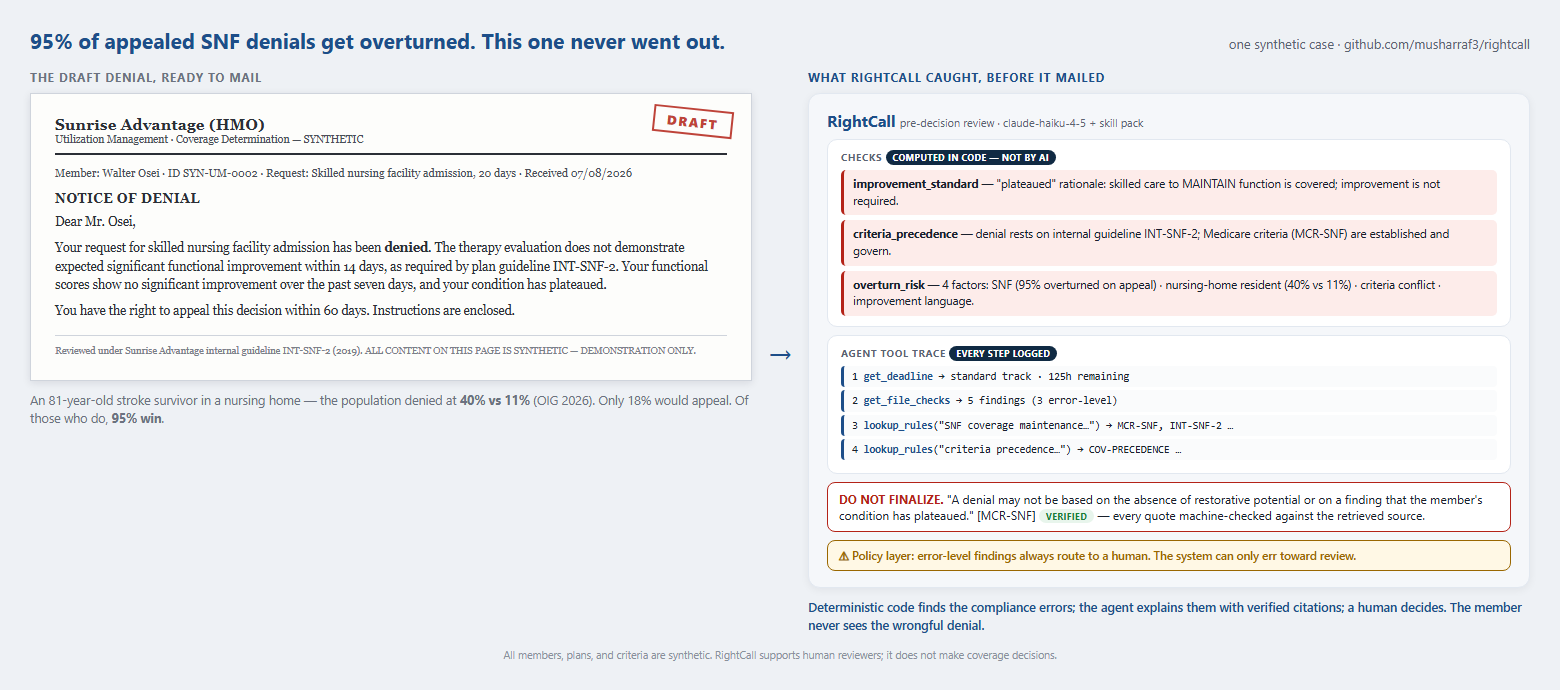
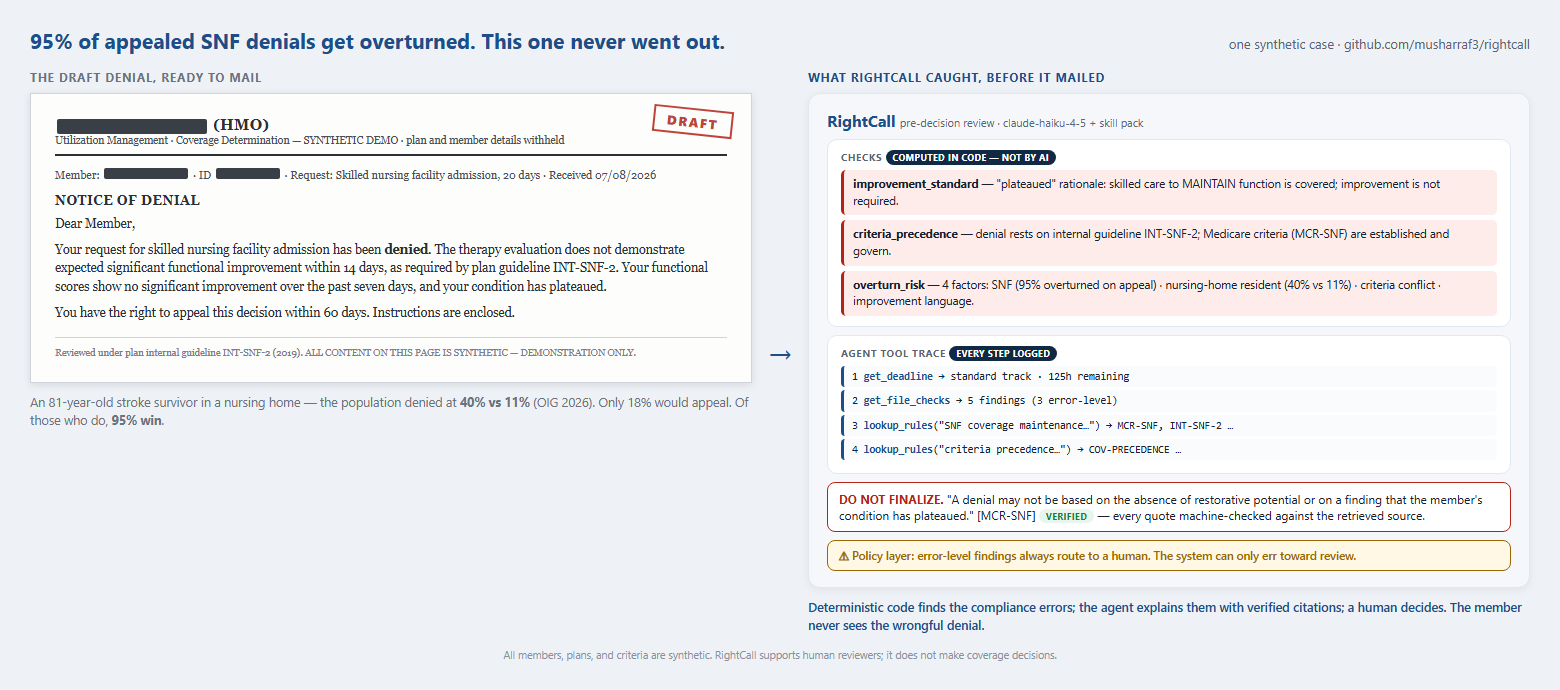
Remove plan brand and person names from public surface
- Requests: generic member identifiers (SYNTHETIC MEMBER 000N) and a generic demo plan name
- Internal-criteria corpus: plan brand removed (verified: all cached citation quotes still pass the groundedness guard; eval metrics unchanged)
- Visuals and reports regenerated with redaction bars; no names anywhere in postable assets

Changed region(s): [[0.0308, 0.2435, 0.4615, 0.5174], [0.0, 0.5478, 0.4923, 0.6391], [0.0308, 0.1522, 0.3692, 0.213]]

diff --git a/docs/the_gap_source.html b/docs/the_gap_source.html
@@ -24,6 +24,8 @@ letter-spacing:.12em;transform:rotate(6deg);text-transform:uppercase;opacity:.85
 .paper p{margin:7px 0;line-height:1.5}
 .paper .meta{font-size:11px;color:#4a4f57;margin:8px 0}
 .paper .fine{margin-top:14px;font-size:9.5px;color:#7a8089;line-height:1.5;border-top:1px solid #cfd4dc;padding-top:8px}
+.redact{display:inline-block;background:#3a3f47;border-radius:2px;height:11px;vertical-align:baseline;margin:0 2px}
+.redact.big{height:15px;vertical-align:middle}
 .caption{font-size:12.5px;margin-top:10px;line-height:1.45}
 .left .caption{color:#6b7280}
 .right .caption{color:#1d4e89;font-weight:600}
@@ -61,13 +63,13 @@ footer{margin-top:14px;font-size:10.5px;color:#8a919c;text-align:center}
     <div class="panel-label">The draft denial, ready to mail</div>
     <div class="paper">
       <div class="stamp">Draft</div>
-      <div class="lh"><b>Sunrise Advantage (HMO)</b><div class="sub2">Utilization Management · Coverage Determination — SYNTHETIC</div></div>
-      <div class="meta">Member: Walter Osei · ID SYN-UM-0002 · Request: Skilled nursing facility admission, 20 days · Received 07/08/2026</div>
+      <div class="lh"><b><span class="redact big" style="width:150px"></span> (HMO)</b><div class="sub2">Utilization Management · Coverage Determination — SYNTHETIC DEMO · plan and member details withheld</div></div>
+      <div class="meta">Member: <span class="redact" style="width:84px"></span> · ID <span class="redact" style="width:64px"></span> · Request: Skilled nursing facility admission, 20 days · Received 07/08/2026</div>
       <h3>Notice of Denial</h3>
-      <p>Dear Mr. Osei,</p>
+      <p>Dear Member,</p>
       <p>Your request for skilled nursing facility admission has been <b>denied</b>. The therapy evaluation does not demonstrate expected significant functional improvement within 14 days, as required by plan guideline INT-SNF-2. Your functional scores show no significant improvement over the past seven days, and your condition has plateaued.</p>
       <p>You have the right to appeal this decision within 60 days. Instructions are enclosed.</p>
-      <div class="fine">Reviewed under Sunrise Advantage internal guideline INT-SNF-2 (2019). ALL CONTENT ON THIS PAGE IS SYNTHETIC — DEMONSTRATION ONLY.</div>
+      <div class="fine">Reviewed under plan internal guideline INT-SNF-2 (2019). ALL CONTENT ON THIS PAGE IS SYNTHETIC — DEMONSTRATION ONLY.</div>
     </div>
     <div class="caption">An 81-year-old stroke survivor in a nursing home — the population denied at <b>40% vs 11%</b> (OIG 2026). Only 18% would appeal. Of those who do, <b>95% win</b>.</div>
   </div>

diff --git a/report/req_02__worker_skill.html b/report/req_02__worker_skill.html
@@ -59,11 +59,11 @@ padding-top:12px}
 .gg{font-weight:600}
 </style></head><body><div class="wrap">
 <header><h1>RightCall</h1><span class="tag">pre-decision review ·
-Sunrise Advantage (HMO) — SYNTHETIC · claude-haiku-4-5-20251001 · arm: worker+skill</span></header>
+Synthetic Medicare Advantage Plan (HMO) — DEMO · claude-haiku-4-5-20251001 · arm: worker+skill</span></header>
 <div style="margin:6px 0 0"><span class="clock">standard track · due 2026-07-15T14:00:00Z · 125h remaining</span></div>
 <div class="banner escalate_human">ESCALATE — a human decides this one</div>
 <div class="card"><h2>Case</h2>
-<p><b>Skilled nursing facility admission, 20 days requested</b> — Walter Osei (SYNTHETIC),
+<p><b>Skilled nursing facility admission, 20 days requested</b> — SYNTHETIC MEMBER 0002,
 SYN-UM-0002</p>
 <p style="color:var(--sub);font-size:13.5px;margin-top:6px">81M post ischemic stroke with dysphagia and right-sided weakness, discharged from acute care 2026-07-07. Therapy evaluation documents daily skilled needs: swallowing therapy with aspiration precautions, PT/OT for safe transfers, and skilled nursing for PEG-site care and anticoagulation monitoring. Functional scores stable over the last week without further gains.</p></div><div class="card"><h2>Pre-decision checks <span class="badge code">computed in code — not by AI</span></h2><div class="finding info"><b>documentation</b><div>File is complete: all 4 required documents for snf_admission are present.</div></div><div class="finding info"><b>deadline</b><div>Decision clock: 125 hours remain on the standard track (due 2026-07-15T14:00:00Z).</div></div><div class="finding error"><b>criteria_precedence</b><div>Draft denial rests on internal criteria (INT-SNF-2), but Medicare coverage criteria for snf_admission are established (see MCR-SNF). Where Medicare criteria exist, they govern — internal criteria may only fill gaps.</div></div><div class="finding error"><b>improvement_standard</b><div>Draft denial rationale uses improvement-standard language (&#x27;no significant improvement&#x27;; &#x27;plateau&#x27;; &#x27;has plateaued&#x27;; &#x27;restorative potential&#x27;). Skilled care to MAINTAIN function or slow decline is covered — improvement is not required. This is among the most-overturned denial rationales.</div></div><div class="finding error"><b>overturn_risk</b><div>Overturn-risk factors present (4): SNF denial (95% of appealed SNF denials are overturned — OIG 2026); nursing-home resident (denied at 40% vs 11% for others — OIG 2026); internal criteria conflict with Medicare criteria; improvement-standard rationale. Published pattern: 81% of appealed MA denials are overturned — a denial with these markers is unlikely to survive review.</div></div></div><div class="card"><h2>Agent tool trace <span class="badge code">every step logged</span></h2><div class="trace"><div class="step"><span class="n">1</span><span><span class="tool">get_deadline</span><span class="in">()</span> → standard track · 125h remaining · due 2026-07-15T14:00:00Z</span></div><div class="step"><span class="n">2</span><span><span class="tool">get_file_checks</span><span class="in">()</span> → 5 findings (3 error-level)</span></div><div class="step"><span class="n">3</span><span><span class="tool">lookup_rules</span><span class="in">({&quot;query&quot;: &quot;SNF skilled nursing facility coverage criteria maintenance improvement&quot;})</span> → query &#x27;SNF skilled nursing facility coverage criteria maintenance improvement&#x27; → INT-SNF-2 (12.793), MCR-SNF (11.873), MCR-THER (8.75), DOC-SNF (7.931)</span></div><div class="step"><span class="n">4</span><span><span class="tool">lookup_rules</span><span class="in">({&quot;query&quot;: &quot;coverage criteria precedence Medicare internal plan guidelines&quot;})</span> → query &#x27;coverage criteria precedence Medicare internal plan guidelines&#x27; → COV-INTERNAL (10.059), INT-IMG-1 (8.618), INT-ACU-1 (7.274), COV-PRECEDENCE (6.544)</span></div></div></div><div class="card"><h2>Review memo</h2><div class="memo">DO NOT FINALIZE. The draft fails two core compliance rules and carries extreme overturn risk (95% of appealed SNF denials overturned per OIG 2026; this case combines internal-criteria conflict, improvement-standard language, and nursing-home setting—81% overall MA appeal overturn rate).
 
@@ -81,7 +81,7 @@ RECOMMENDED ACTIONS:
 - Route to medical director immediately; do not finalize notice.
 - Re-review against MCR-SNF (not INT-SNF-2). Member meets Medicare criteria: post-stroke, acute discharge, documented daily skilled nursing and therapy needs, medical necessity clearly established by discharge summary and therapy evaluation.
 - Retire or formally annotate INT-SNF-2 in the criteria library with a precedence note; do not apply to future SNF reviews.
-- Approval is the appropriate coverage outcome on this file.</div><div class="impact"><b>Member impact (plain language):</b> Your request for skilled nursing care after your stroke cannot be approved under the guideline your plan used. We need to review this again under the correct Medicare rules. You should not receive a denial letter until your care is reviewed the right way. We will contact you within the next few days with an update.</div></div><div class="card"><h2>Citations — machine-verified</h2><div class="cite"><span class="src">[MCR-SNF] Skilled nursing facility care: coverage criteria</span> <span class="badge ok">verified</span><div class="q">“skilled care needed to maintain the member&#x27;s condition, or to prevent or slow further deterioration, is covered. A denial may not be based on the absence of restorative potential or on a finding that the member&#x27;s condition has plateaued.”</div></div><div class="cite"><span class="src">[COV-PRECEDENCE] Medicare coverage criteria govern when they exist</span> <span class="badge ok">verified</span><div class="q">“When Medicare coverage criteria fully establish when an item or service is covered, those criteria govern the decision and the plan may not apply more restrictive rules of its own.”</div></div><div class="cite"><span class="src">[INT-SNF-2] Sunrise internal guideline: SNF admission (legacy)</span> <span class="badge ok">verified</span><div class="q">“skilled nursing facility admission is approved when the member demonstrates documented restorative potential with expected significant functional improvement within 14 days of admission, measurable against baseline functional scores. Members assessed as having plateaued or as requiring maintenance-level care do not meet this guideline.”</div></div><div class="cite"><span class="src">[COV-INTERNAL] Internal criteria: only in the gaps, and only in the open</span> <span class="badge ok">verified</span><div class="q">“A plan may apply internal coverage criteria only when Medicare coverage criteria are not fully established for the item or service.”</div></div><div class="retr"><b>why these sources (retrieval scores):</b><div><span class="bar" style="width:70px"></span>INT-SNF-2 · BM25 12.793 · matched: criteria, facility, improvement, maintenance, nursing, skilled</div><div><span class="bar" style="width:64px"></span>MCR-SNF · BM25 11.873 · matched: coverage, criteria, facility, improvement, nursing, skilled</div><div><span class="bar" style="width:55px"></span>COV-INTERNAL · BM25 10.059 · matched: coverage, criteria, guidelines, internal, medicare, plan</div><div><span class="bar" style="width:47px"></span>MCR-THER · BM25 8.75 · matched: coverage, criteria, improvement, maintenance, skilled</div><div><span class="bar" style="width:47px"></span>INT-IMG-1 · BM25 8.618 · matched: coverage, criteria, guidelines, internal, medicare, plan</div></div></div><div class="card"><h2>Recommended actions</h2><ol class="actions"><li>Route to medical director immediately; do not finalize or mail notice.</li><li>Re-review against MCR-SNF (Medicare criteria), not INT-SNF-2.</li><li>Approve: member meets Medicare criteria (post-stroke, acute discharge, documented daily skilled needs for nursing, swallowing therapy, PT/OT, and medical monitoring).</li><li>Retire or annotate INT-SNF-2 in the criteria library; flag for precedence violation in future use.</li></ol></div><div class="escalate">⚠ Human hand-off: Compliance gate failure on two grounds: (1) improvement-standard error — draft uses &#x27;plateaued&#x27; and &#x27;no significant improvement&#x27; rationale, directly violating MCR-SNF which explicitly states improvement is not required and denials cannot rest on plateau or lack of restorative potential; (2) criteria-precedence error — draft applies legacy INT-SNF-2 (requiring &#x27;expected significant functional improvement within 14 days&#x27;) when MCR-SNF is fully established and governs, and INT-SNF-2 contradicts it. File is complete and clock is healthy, but the notice as drafted will very likely be overturned on appeal (95% of appealed SNF denials overturned; case combines all high-risk markers). Medical director review and re-determination against MCR-SNF required before any notice is mailed.</div><footer><span class="gg">Groundedness guard: 4/4 citations verified verbatim against chunks actually retrieved in this review.</span>
+- Approval is the appropriate coverage outcome on this file.</div><div class="impact"><b>Member impact (plain language):</b> Your request for skilled nursing care after your stroke cannot be approved under the guideline your plan used. We need to review this again under the correct Medicare rules. You should not receive a denial letter until your care is reviewed the right way. We will contact you within the next few days with an update.</div></div><div class="card"><h2>Citations — machine-verified</h2><div class="cite"><span class="src">[MCR-SNF] Skilled nursing facility care: coverage criteria</span> <span class="badge ok">verified</span><div class="q">“skilled care needed to maintain the member&#x27;s condition, or to prevent or slow further deterioration, is covered. A denial may not be based on the absence of restorative potential or on a finding that the member&#x27;s condition has plateaued.”</div></div><div class="cite"><span class="src">[COV-PRECEDENCE] Medicare coverage criteria govern when they exist</span> <span class="badge ok">verified</span><div class="q">“When Medicare coverage criteria fully establish when an item or service is covered, those criteria govern the decision and the plan may not apply more restrictive rules of its own.”</div></div><div class="cite"><span class="src">[INT-SNF-2] Plan internal guideline: SNF admission (legacy)</span> <span class="badge ok">verified</span><div class="q">“skilled nursing facility admission is approved when the member demonstrates documented restorative potential with expected significant functional improvement within 14 days of admission, measurable against baseline functional scores. Members assessed as having plateaued or as requiring maintenance-level care do not meet this guideline.”</div></div><div class="cite"><span class="src">[COV-INTERNAL] Internal criteria: only in the gaps, and only in the open</span> <span class="badge ok">verified</span><div class="q">“A plan may apply internal coverage criteria only when Medicare coverage criteria are not fully established for the item or service.”</div></div><div class="retr"><b>why these sources (retrieval scores):</b><div><span class="bar" style="width:70px"></span>INT-SNF-2 · BM25 12.793 · matched: criteria, facility, improvement, maintenance, nursing, skilled</div><div><span class="bar" style="width:64px"></span>MCR-SNF · BM25 11.873 · matched: coverage, criteria, facility, improvement, nursing, skilled</div><div><span class="bar" style="width:55px"></span>COV-INTERNAL · BM25 10.059 · matched: coverage, criteria, guidelines, internal, medicare, plan</div><div><span class="bar" style="width:47px"></span>MCR-THER · BM25 8.75 · matched: coverage, criteria, improvement, maintenance, skilled</div><div><span class="bar" style="width:47px"></span>INT-IMG-1 · BM25 8.618 · matched: coverage, criteria, guidelines, internal, medicare, plan</div></div></div><div class="card"><h2>Recommended actions</h2><ol class="actions"><li>Route to medical director immediately; do not finalize or mail notice.</li><li>Re-review against MCR-SNF (Medicare criteria), not INT-SNF-2.</li><li>Approve: member meets Medicare criteria (post-stroke, acute discharge, documented daily skilled needs for nursing, swallowing therapy, PT/OT, and medical monitoring).</li><li>Retire or annotate INT-SNF-2 in the criteria library; flag for precedence violation in future use.</li></ol></div><div class="escalate">⚠ Human hand-off: Compliance gate failure on two grounds: (1) improvement-standard error — draft uses &#x27;plateaued&#x27; and &#x27;no significant improvement&#x27; rationale, directly violating MCR-SNF which explicitly states improvement is not required and denials cannot rest on plateau or lack of restorative potential; (2) criteria-precedence error — draft applies legacy INT-SNF-2 (requiring &#x27;expected significant functional improvement within 14 days&#x27;) when MCR-SNF is fully established and governs, and INT-SNF-2 contradicts it. File is complete and clock is healthy, but the notice as drafted will very likely be overturned on appeal (95% of appealed SNF denials overturned; case combines all high-risk markers). Medical director review and re-determination against MCR-SNF required before any notice is mailed.</div><footer><span class="gg">Groundedness guard: 4/4 citations verified verbatim against chunks actually retrieved in this review.</span>
 The decision clock, file checks, citation verification, and policy overrides are
 deterministic code — inspect them in the repo. RightCall supports human reviewers;
 it does not make coverage decisions. All data on this page is synthetic.</footer>

diff --git a/report/req_04__worker_skill.html b/report/req_04__worker_skill.html
@@ -59,11 +59,11 @@ padding-top:12px}
 .gg{font-weight:600}
 </style></head><body><div class="wrap">
 <header><h1>RightCall</h1><span class="tag">pre-decision review ·
-Sunrise Advantage (HMO) — SYNTHETIC · claude-haiku-4-5-20251001 · arm: worker+skill</span></header>
+Synthetic Medicare Advantage Plan (HMO) — DEMO · claude-haiku-4-5-20251001 · arm: worker+skill</span></header>
 <div style="margin:6px 0 0"><span class="clock">standard track · due 2026-07-12T16:00:00Z · 55h remaining</span></div>
 <div class="banner denial_supported">DENIAL SUPPORTED — complete file, criteria clearly unmet, specific reason present</div>
 <div class="card"><h2>Case</h2>
-<p><b>Group 2 power wheelchair</b> — Gene Albright (SYNTHETIC),
+<p><b>Group 2 power wheelchair</b> — SYNTHETIC MEMBER 0004,
 SYN-UM-0004</p>
 <p style="color:var(--sub);font-size:13.5px;margin-top:6px">72M with mild COPD. Face-to-face mobility exam documents independent ambulation throughout the home with a rollator walker, including safe transfers, toileting, and kitchen access. Home assessment confirms single-level home with no barriers to walker use. Stated goal on the exam: &#x27;wants the power chair for longer outings — the senior center and the park are too far to walk.&#x27;</p></div><div class="card"><h2>Pre-decision checks <span class="badge code">computed in code — not by AI</span></h2><div class="finding info"><b>documentation</b><div>File is complete: all 3 required documents for power_wheelchair are present.</div></div><div class="finding info"><b>deadline</b><div>Decision clock: 55 hours remain on the standard track (due 2026-07-12T16:00:00Z).</div></div></div><div class="card"><h2>Agent tool trace <span class="badge code">every step logged</span></h2><div class="trace"><div class="step"><span class="n">1</span><span><span class="tool">get_deadline</span><span class="in">()</span> → standard track · 55h remaining · due 2026-07-12T16:00:00Z</span></div><div class="step"><span class="n">2</span><span><span class="tool">get_file_checks</span><span class="in">()</span> → 2 findings (0 error-level)</span></div><div class="step"><span class="n">3</span><span><span class="tool">lookup_rules</span><span class="in">({&quot;query&quot;: &quot;power wheelchair mobility equipment in-home coverage criteria MCR-PWC&quot;})</span> → query &#x27;power wheelchair mobility equipment in-home coverage criteria MCR-PWC&#x27; → MCR-PWC (18.129), DOC-PWC (17.517), MCR-HH (5.2), COV-PRECEDENCE (3.125)</span></div></div></div><div class="card"><h2>Review memo</h2><div class="memo">Draft denial is correct and may be finalized. The file is complete and the clinical evidence unambiguously shows that in-home mobility-related ADLs (toileting, kitchen access, safe transfers) are independently and safely performed with the member&#x27;s current rollator walker in a barrier-free single-level home. MCR-PWC explicitly requires that a mobility limitation significantly impair IN-HOME ADL function and that the limitation cannot be resolved by a walker. The member&#x27;s stated goal—use for outings to the senior center and park—places the need squarely in the category MCR-PWC excludes: &#x27;equipment intended primarily for mobility outside the home, for leisure, or for community convenience.&#x27; The rationale is specific, accurate, and well-supported. No compliance issues detected.</div><div class="impact"><b>Member impact (plain language):</b> We cannot approve a power wheelchair for this request. Our coverage rules require that a wheelchair be needed to help with daily activities inside your home—like getting to the bathroom, kitchen, or bedroom—and that your current walker doesn&#x27;t work safely for those tasks. Your doctor&#x27;s exam shows that you can move around your home safely and independently with your walker. You said you want the power chair mainly for trips outside—to the senior center and park. That&#x27;s outdoor use, not in-home activities. Our coverage doesn&#x27;t include wheelchairs for outdoor trips or community outings, even though we understand those trips are important to you.</div></div><div class="card"><h2>Citations — machine-verified</h2><div class="cite"><span class="src">[MCR-PWC] Power wheelchair: coverage criteria</span> <span class="badge err">not verified — human review</span><div class="q">“A power wheelchair is covered when the member has a mobility limitation that significantly impairs the ability to perform mobility-related activities of daily living such as toileting, feeding, dressing, and bathing IN THE HOME, and the limitation cannot be adequately and safely resolved by a cane, walker, or optimally configured manual wheelchair. ... Equipment intended primarily for mobility outside the home, for leisure, or for community convenience does not meet the in-home standard.”</div></div><div class="retr"><b>why these sources (retrieval scores):</b><div><span class="bar" style="width:70px"></span>MCR-PWC · BM25 18.129 · matched: coverage, criteria, equipment, home, mobility, power</div><div><span class="bar" style="width:67px"></span>DOC-PWC · BM25 17.517 · matched: equipment, home, mobility, power, wheelchair</div><div><span class="bar" style="width:20px"></span>MCR-HH · BM25 5.2 · matched: coverage, criteria, home</div><div><span class="bar" style="width:12px"></span>COV-PRECEDENCE · BM25 3.125 · matched: coverage, criteria</div></div></div><div class="card"><h2>Recommended actions</h2><ol class="actions"><li>Finalize the denial notice as drafted.</li><li>Ensure the member understands the distinction between in-home ADL mobility and community mobility in any appeal correspondence.</li></ol></div><div class="escalate">⚠ Human hand-off: Groundedness below threshold — too many memo statements could not be verified against the retrieved sources. Route to a human reviewer.</div><footer><span class="gg">Groundedness guard: 0/1 citations verified verbatim against chunks actually retrieved in this review.</span>
 The decision clock, file checks, citation verification, and policy overrides are

diff --git a/report/req_05__worker_skill.html b/report/req_05__worker_skill.html
@@ -59,11 +59,11 @@ padding-top:12px}
 .gg{font-weight:600}
 </style></head><body><div class="wrap">
 <header><h1>RightCall</h1><span class="tag">pre-decision review ·
-Sunrise Advantage D-SNP (HMO) — SYNTHETIC · claude-haiku-4-5-20251001 · arm: worker+skill</span></header>
+Synthetic Medicare Advantage D-SNP (HMO) — DEMO · claude-haiku-4-5-20251001 · arm: worker+skill</span></header>
 <div style="margin:6px 0 0"><span class="clock">standard track · due 2026-07-15T11:00:00Z · 122h remaining</span></div>
 <div class="banner escalate_human">ESCALATE — a human decides this one</div>
 <div class="card"><h2>Case</h2>
-<p><b>Cardiac rehabilitation program, 24 sessions</b> — Marisol Quintero (SYNTHETIC),
+<p><b>Cardiac rehabilitation program, 24 sessions</b> — SYNTHETIC MEMBER 0005,
 SYN-UM-0005, dual status: qmb</p>
 <p style="color:var(--sub);font-size:13.5px;margin-top:6px">70F, CABG on 2026-05-30, cardiologist prescribes supervised cardiac rehabilitation. QMB-tier dual eligible; state Medicaid coordinates cost sharing.</p></div><div class="card"><h2>Pre-decision checks <span class="badge code">computed in code — not by AI</span></h2><div class="finding info"><b>documentation</b><div>File is complete: all 2 required documents for cardiac_rehab are present.</div></div><div class="finding info"><b>deadline</b><div>Decision clock: 122 hours remain on the standard track (due 2026-07-15T11:00:00Z).</div></div><div class="finding info"><b>dual_qmb</b><div>Member is QMB-tier dual eligible: zero Medicare cost sharing may be charged, and providers may not balance bill. Medicaid coordinates as secondary payer.</div></div><div class="finding error"><b>dual_qmb</b><div>Draft decision imposes $45.00 cost sharing on a QMB member. QMB members owe $0 — this must be corrected before any notice goes out.</div></div></div><div class="card"><h2>Agent tool trace <span class="badge code">every step logged</span></h2><div class="trace"><div class="step"><span class="n">1</span><span><span class="tool">get_deadline</span><span class="in">()</span> → standard track · 122h remaining · due 2026-07-15T11:00:00Z</span></div><div class="step"><span class="n">2</span><span><span class="tool">get_file_checks</span><span class="in">()</span> → 4 findings (1 error-level)</span></div><div class="step"><span class="n">3</span><span><span class="tool">lookup_rules</span><span class="in">({&quot;query&quot;: &quot;QMB dual eligible cost sharing Medicare cost sharing&quot;})</span> → query &#x27;QMB dual eligible cost sharing Medicare cost sharing&#x27; → DUAL-QMB (20.946), DUAL-LAST (20.141), DUAL-DSNP (12.585), COV-PRECEDENCE (2.342)</span></div><div class="step"><span class="n">4</span><span><span class="tool">lookup_rules</span><span class="in">({&quot;query&quot;: &quot;cardiac rehabilitation coverage criteria Medicare&quot;})</span> → query &#x27;cardiac rehabilitation coverage criteria Medicare&#x27; → DOC-CR (8.472), MCR-CR (8.239), COV-PRECEDENCE (5.467), COV-INTERNAL (3.995)</span></div></div></div><div class="card"><h2>Review memo</h2><div class="memo">STOP: Do not issue this notice. The draft approves cardiac rehabilitation correctly under MCR-CR but commits a QMB cost-sharing violation. The member is QMB-tier dual eligible and cannot be charged the $45 copay shown in the draft. Per DUAL-QMB: &#x27;A member in the Qualified Medicare Beneficiary program cannot be charged Medicare deductibles, coinsurance, or copayments for covered services.&#x27; The file is complete, the clinical criteria are met (CABG on 2026-05-30 within the 12-month window; physician referral on file), and the decision itself is correct—but the member responsibility must be zeroed before any notice goes out. Correct the member_cost_share to $0.00, re-review for Medicaid coordination per DUAL-DSNP, and then route for final issuance.</div><div class="impact"><b>Member impact (plain language):</b> Your cardiac rehab program has been approved for 24 sessions. Because you are in the Qualified Medicare Beneficiary program, you do not owe any Medicare copays for this service. You will not receive a bill from Medicare for this program.</div></div><div class="card"><h2>Citations — machine-verified</h2><div class="cite"><span class="src">[DUAL-QMB] Qualified Medicare Beneficiary (QMB): zero cost sharing</span> <span class="badge ok">verified</span><div class="q">“A member in the Qualified Medicare Beneficiary program cannot be charged Medicare deductibles, coinsurance, or copayments for covered services.”</div></div><div class="cite"><span class="src">[DUAL-QMB] Qualified Medicare Beneficiary (QMB): zero cost sharing</span> <span class="badge ok">verified</span><div class="q">“Any decision that imposes cost sharing on a QMB member is incorrect regardless of the coverage outcome.”</div></div><div class="cite"><span class="src">[MCR-CR] Cardiac rehabilitation: coverage criteria</span> <span class="badge ok">verified</span><div class="q">“Cardiac rehabilitation programs are covered for members who within the preceding twelve months have experienced a heart attack, coronary artery bypass surgery, stable angina, heart valve repair or replacement, coronary angioplasty or stenting, or a heart or heart-lung transplant.”</div></div><div class="cite"><span class="src">[DUAL-DSNP] Dual-eligible special needs plans: coordination duties</span> <span class="badge ok">verified</span><div class="q">“A dual-eligible special needs plan must coordinate the member&#x27;s Medicare and Medicaid benefits, including sharing information needed for the state to adjudicate its portion.”</div></div><div class="retr"><b>why these sources (retrieval scores):</b><div><span class="bar" style="width:70px"></span>DUAL-QMB · BM25 20.946 · matched: cost, medicare, qmb, sharing</div><div><span class="bar" style="width:67px"></span>DUAL-LAST · BM25 20.141 · matched: cost, dual, eligible, medicare, qmb, sharing</div><div><span class="bar" style="width:42px"></span>DUAL-DSNP · BM25 12.585 · matched: dual, eligible, medicare, sharing</div><div><span class="bar" style="width:28px"></span>DOC-CR · BM25 8.472 · matched: cardiac, rehabilitation</div><div><span class="bar" style="width:27px"></span>MCR-CR · BM25 8.239 · matched: cardiac, coverage, criteria, rehabilitation</div></div></div><div class="card"><h2>Recommended actions</h2><ol class="actions"><li>Correct member_cost_share from $45.00 to $0.00 in the decision.</li><li>Verify Medicaid coordination: confirm state Medicaid has been notified and claim routing is set up per DUAL-DSNP.</li><li>Route to compliance review before final issuance to prevent a QMB violation notice.</li><li>Reissue the notice with zero cost sharing.</li></ol></div><div class="escalate">⚠ Human hand-off: QMB cost-sharing violation: draft imposes $45 copay on a QMB member. Per DUAL-QMB, this is incorrect regardless of coverage outcome. File is complete and clinical criteria are met; compliance error alone requires routing for correction before notice issuance.</div><footer><span class="gg">Groundedness guard: 4/4 citations verified verbatim against chunks actually retrieved in this review.</span>
 The decision clock, file checks, citation verification, and policy overrides are